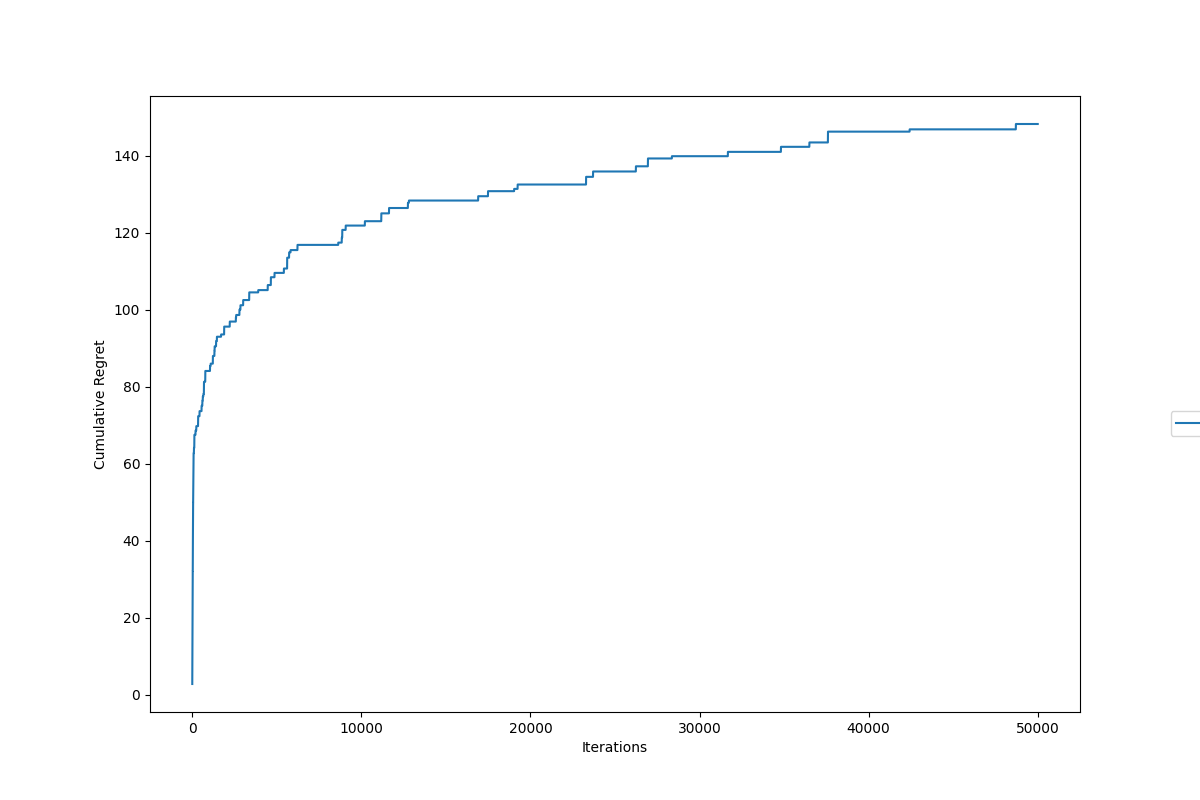
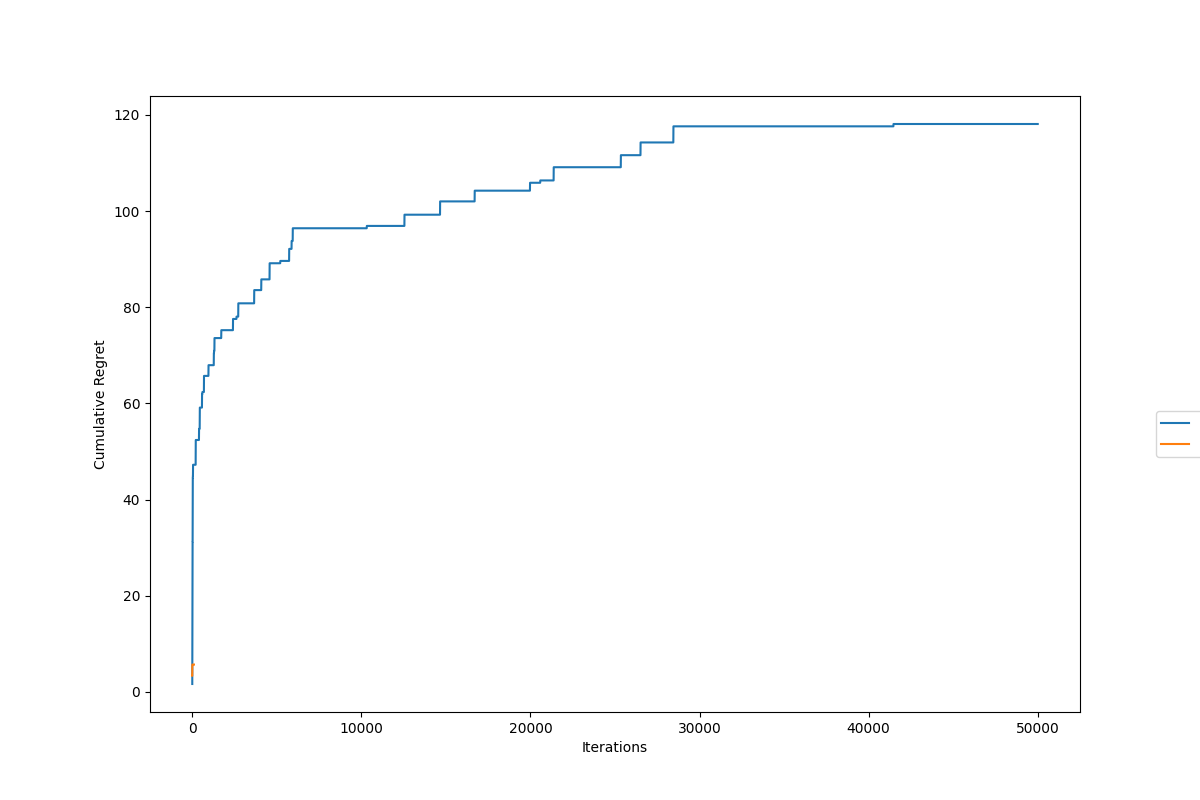
finalize gp_ucb implementation

diff --git a/ucb.py b/ucb.py
@@ -1,4 +1,5 @@
 import numpy as np
+import gpflow
 
 
 class ucb1:
@@ -43,13 +44,32 @@ class gp_ucb:
         self.mean_reward = 0
         self.rewards = np.zeros(num_iters)
         self.arms_mean_reward = np.zeros(num_arms)
-        self.reward_distribution = reward_distribution
+        self.y = reward_distribution
+        self.x = np.arange(num_arms, step=1.0).reshape(num_arms, 1)
+        self.obs_x = np.zeros(num_iters).reshape(num_iters, 1)
+        self.obs_y = np.zeros(num_iters).reshape(num_iters, 1)
+        self.cumulative_regret = 0
+        self.regrets = np.zeros(num_iters)
 
-    def _ucb(mean, variance, beta):
+    def _ucb(self, mean, variance, beta=1):
         return np.argmax(mean + np.sqrt(beta) * variance)
 
-    def play(self):
-        pass
-
     def run(self):
-        pass
+        for i in range(self.num_iters):
+            kernel = gpflow.kernels.Matern52()
+            model = gpflow.models.GPR(
+                data=(self.obs_x, self.obs_y), kernel=kernel)
+            optimizer = gpflow.optimizers.Scipy()
+            opt_logs = optimizer.minimize(
+                model.training_loss, model.trainable_variables, options=dict(maxiter=100))
+
+            mean, variance = model.predict_f(self.x)
+            x_t = self._ucb(mean, variance)
+
+            print(x_t, np.max(self.y), self.y[x_t])
+
+            self.cumulative_regret += np.max(self.y) - self.y[x_t]
+            self.regrets[i] = self.cumulative_regret
+
+            self.obs_x[i] = self.x[x_t]
+            self.obs_y[i] = self.y[x_t]

diff --git a/compare.py b/compare.py
@@ -6,15 +6,21 @@ from ucb import *
 
 
 num_arms = 10
-num_iters = 50000
+num_iters_ucb1 = 50000
+num_iters_gp_ucb = 100
 reward_distribution = np.random.normal(0, 1, num_arms).reshape(num_arms, 1)
 
-ucb1 = ucb1(num_arms, num_iters, reward_distribution)
+ucb1 = ucb1(num_arms, num_iters_ucb1, reward_distribution)
 
 ucb1.run()
 ucb1_regrets = ucb1.regrets
 
-action_counts = ucb1.arm_step_counts / num_iters * 100
+gp_ucb = gp_ucb(num_arms, num_iters_gp_ucb, reward_distribution)
+
+gp_ucb.run()
+gp_ucb_regrets = gp_ucb.regrets
+
+action_counts = ucb1.arm_step_counts / num_iters_ucb1 * 100
 df = pd.DataFrame(np.vstack([action_counts.reshape(-1, 1).T.round(2),
                              ucb1.reward_distribution.reshape(-1, 1).T.round(2)]),
                   index=["UCB1", "Expected Reward"],
@@ -23,6 +29,7 @@ df.to_csv("out.csv")
 
 plt.figure(figsize=(12, 8))
 plt.plot(ucb1_regrets, label="UCB1")
+plt.plot(gp_ucb_regrets, label="GP-UCB")
 plt.legend(bbox_to_anchor=(1.2, 0.5))
 plt.xlabel("Iterations")
 plt.ylabel("Cumulative Regret")
